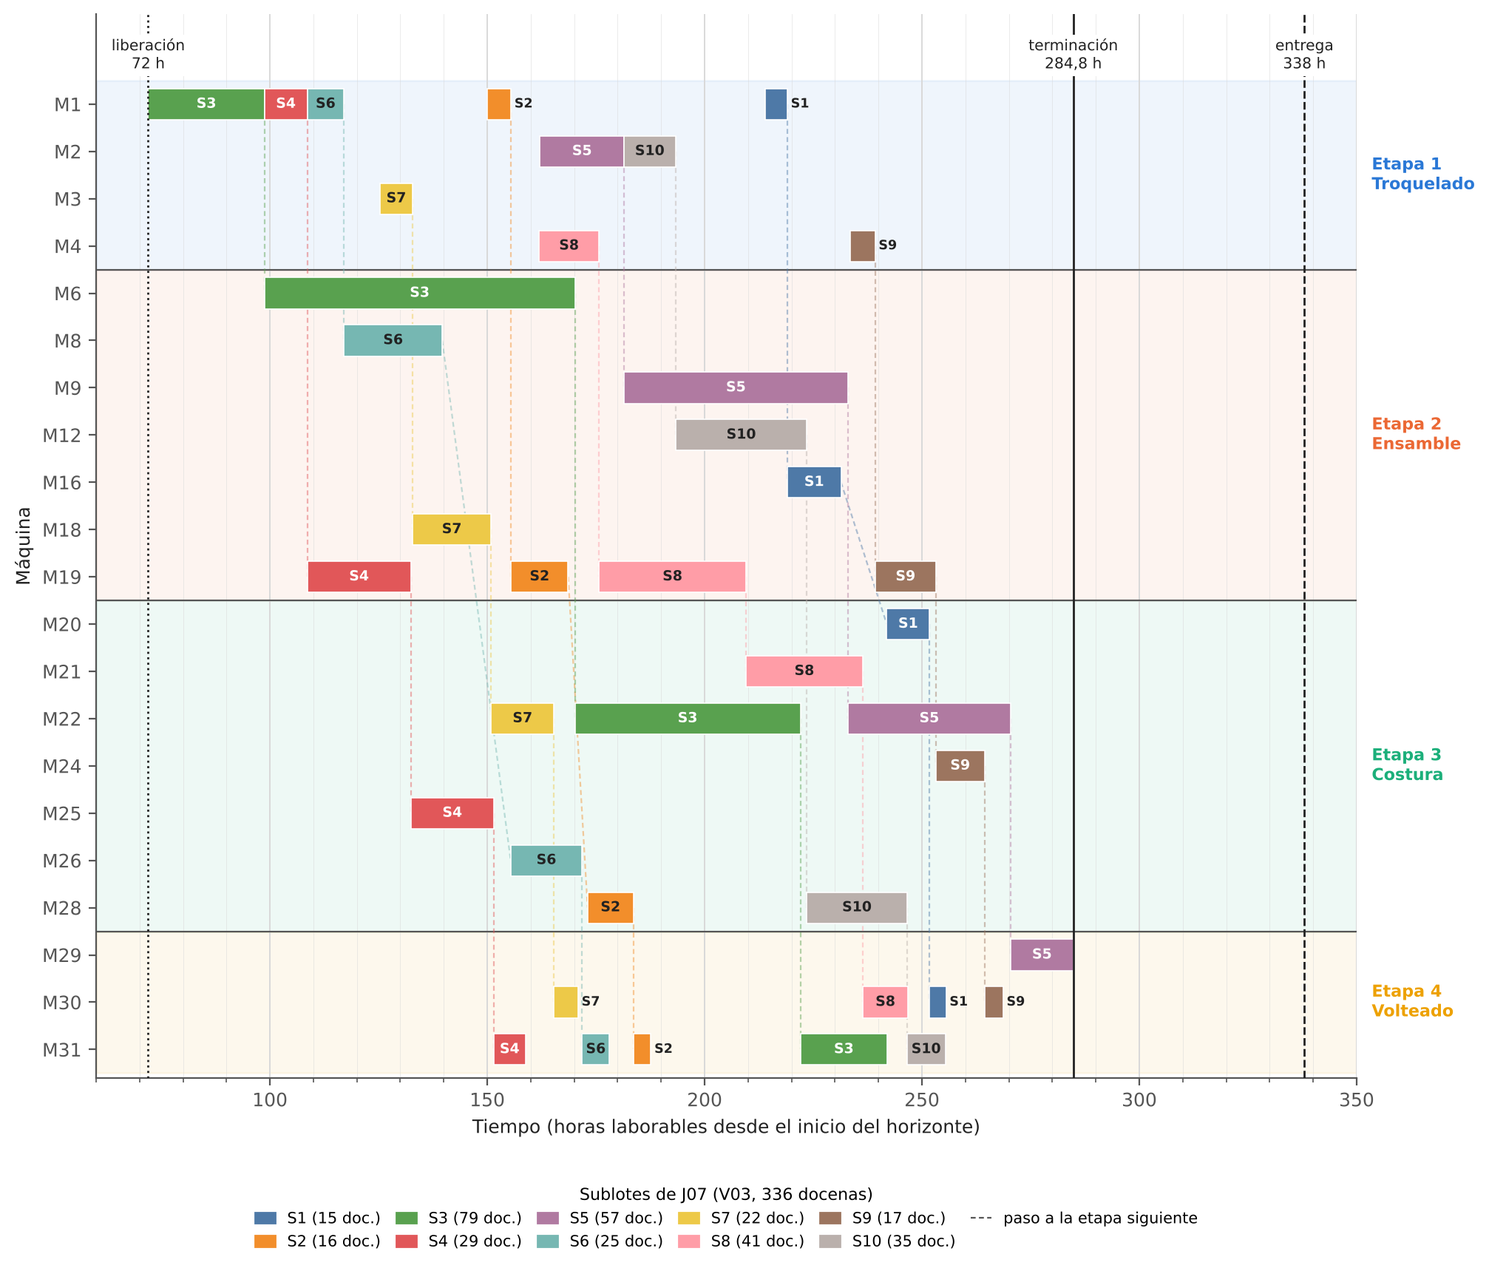
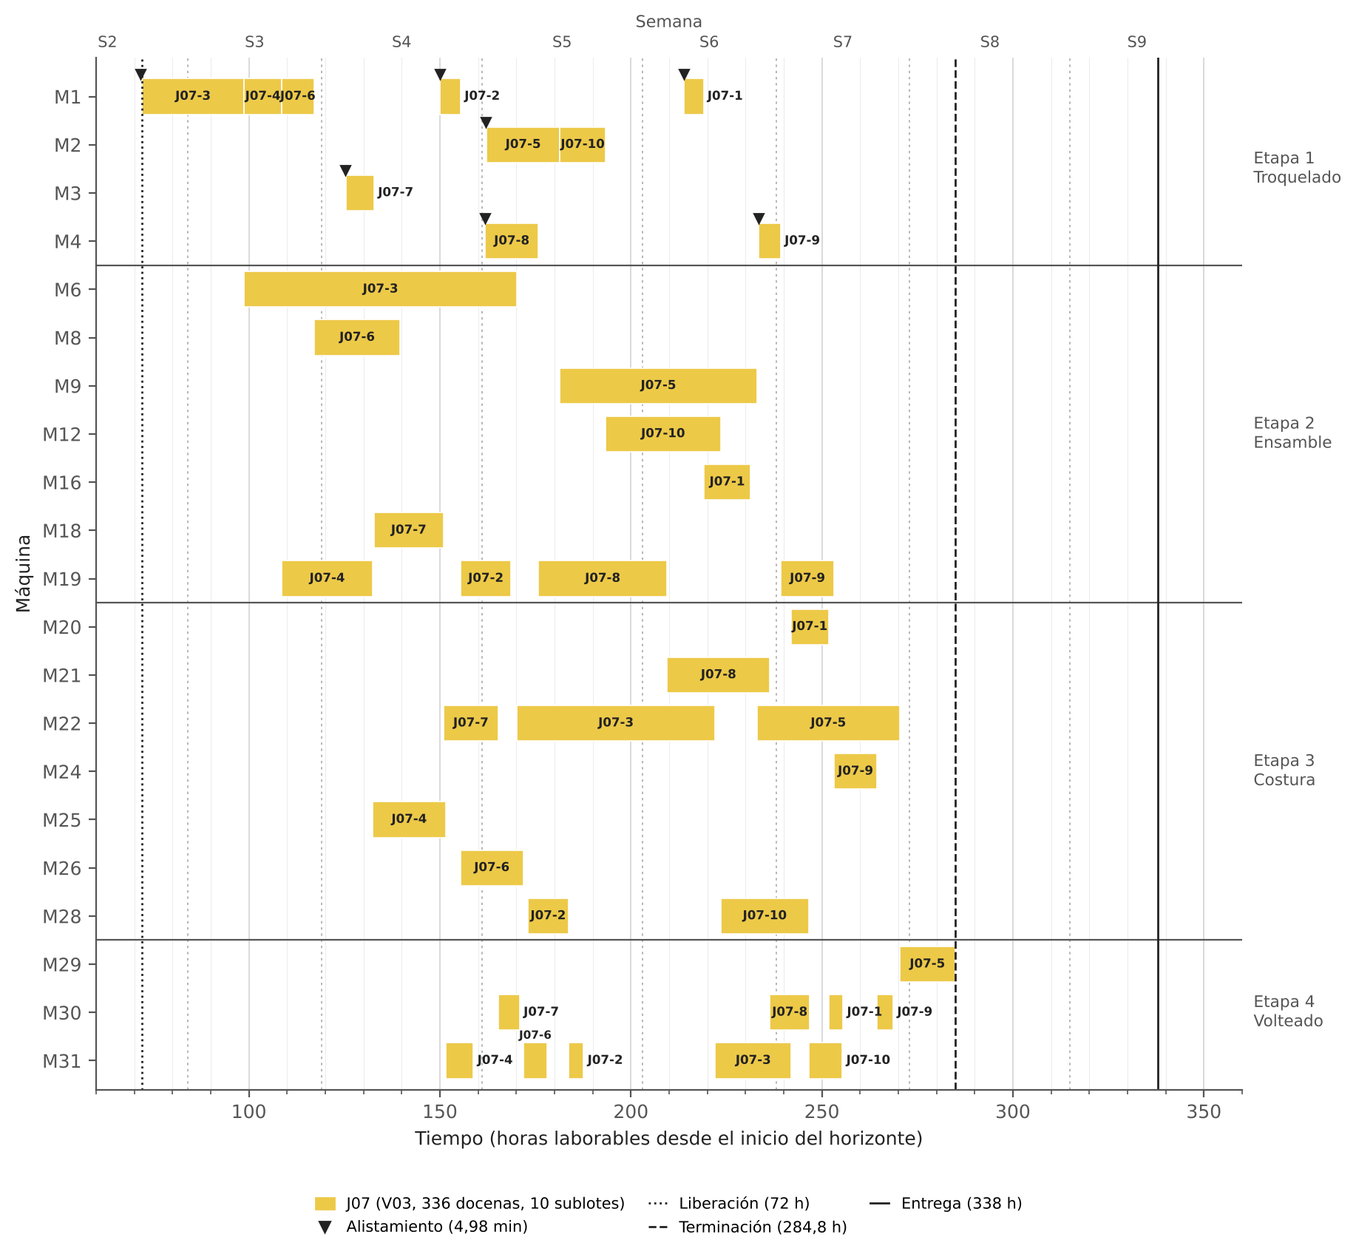
Ruta de la orden J07 con el mismo diseño de los Gantt por etapa
figura_ruta_maquinas usa ahora el estilo de los Gantt por etapa: color de la
orden, etiquetas J07-1 … J07-10, eje de tiempo con horas y semanas, triángulos
de alistamiento y leyenda abajo; las etapas se separan con líneas y su nombre
va al margen. El eje se acota al período de la orden para que las barras y
sus etiquetas se lean, y la liberación, la terminación y la entrega pasan a
la leyenda. Anexo digital actualizado.

Claude-Session: https://claude.ai/code/session_01TVPKkpnk5SghcUD46f5dXj

diff --git a/Anexos_digitales/2_Modelo/final_sc_hfsagls_S2_4.py b/Anexos_digitales/2_Modelo/final_sc_hfsagls_S2_4.py
@@ -896,8 +896,8 @@ def fin_de_semanas() -> List[float]:
     return [fin[k] for k in sorted(fin)]
 
 
-def _eje_tiempo(ax, xmax: float, semanas: List[float]):
-    ax.set_xlim(0, xmax)
+def _eje_tiempo(ax, xmax: float, semanas: List[float], xmin: float = 0):
+    ax.set_xlim(xmin, xmax)
     ax.xaxis.set_major_locator(ticker.MultipleLocator(50))
     ax.xaxis.set_minor_locator(ticker.MultipleLocator(10))
     ax.grid(axis='x', which='major', color=_REJILLA, linewidth=0.7)
@@ -909,13 +909,16 @@ def _eje_tiempo(ax, xmax: float, semanas: List[float]):
     if semanas:                       # semanas del calendario en el eje superior
         ax2 = ax.secondary_xaxis('top')
         lim = [0] + [h for h in semanas if h <= xmax]
-        ax2.set_xticks([(a + b) / 2 for a, b in zip(lim[:-1], lim[1:])])
-        ax2.set_xticklabels([f'S{k + 1}' for k in range(len(lim) - 1)], fontsize=7.5, color=_TINTA2)
+        centros = [((a + b) / 2, f'S{k + 1}') for k, (a, b) in enumerate(zip(lim[:-1], lim[1:]))
+                   if xmin <= (a + b) / 2 <= xmax]
+        ax2.set_xticks([c for c, _ in centros])
+        ax2.set_xticklabels([e for _, e in centros], fontsize=7.5, color=_TINTA2)
         ax2.tick_params(length=0)
         ax2.spines['top'].set_visible(False)
         ax2.set_xlabel('Semana', fontsize=8, color=_TINTA2)
         for h in lim[1:]:
-            ax.axvline(h, color='#aaaaaa', linewidth=0.6, linestyle=(0, (2, 3)), zorder=0)
+            if xmin < h < xmax:
+                ax.axvline(h, color='#aaaaaa', linewidth=0.6, linestyle=(0, (2, 3)), zorder=0)
 
 
 def figura_gantt_etapa(gantt: Dict, etapa: int, xmax: float = 620, titulo: bool = True):
@@ -1055,13 +1058,15 @@ def figura_ruta_por_etapa(C: Dict[str, float], gantt: Dict, tam: Dict[str, List[
     return fig
 
 
-def figura_ruta_maquinas(C: Dict[str, float], gantt: Dict, tam: Dict[str, List[float]], orden: str):
-    """Gantt de la ruta de una orden: una fila por máquina que la procesa, agrupadas por etapa, y
-    cada barra etiquetada con su sublote (un color por sublote, para seguir su flujo entre etapas)."""
+def figura_ruta_maquinas(C: Dict[str, float], gantt: Dict, tam: Dict[str, List[float]], orden: str,
+                         titulo: bool = True):
+    """Gantt de la ruta de una orden con el mismo diseño de los Gantt por etapa: una fila por
+    máquina que procesa la orden (agrupadas y separadas por etapa), barras del color de la orden
+    etiquetadas con el sublote, eje de tiempo en horas y semanas, y alistamientos marcados."""
+    color = COLORES_ORDEN[TRABAJOS.index(orden) % len(COLORES_ORDEN)]
     ops = {(b, s): (m, i, f) for s in ETAPAS for (j, b, m, i, f) in gantt[s] if j == orden}
     B = max(b for (b, _) in ops)
     r, d, cj = RELEASE[orden], DUE_DATE[orden], C[orden]
-    color = {b: COLORES_ORDEN[(b - 1) % len(COLORES_ORDEN)] for b in range(1, B + 1)}
     filas, grupos = [], []                       # filas de arriba hacia abajo, agrupadas por etapa
     for s in ETAPAS:
         maqs = sorted({ops[(b, s)][0] for b in range(1, B + 1)}, key=_clave_maquina)
@@ -1069,60 +1074,71 @@ def figura_ruta_maquinas(C: Dict[str, float], gantt: Dict, tam: Dict[str, List[f
         filas += [(s, mq) for mq in maqs]
     n = len(filas)
     y_de = {fm: n - 1 - k for k, fm in enumerate(filas)}
-    lo, hi = 10 * int(r // 10) - 10, 10 * int(max(d, cj) // 10) + 20
+    xmin, xmax = 10 * int(r // 10) - 10, 10 * int(math.ceil(max(d, cj) / 10)) + 20
+    h_car = 0.0052 * (xmax - xmin)               # ancho aproximado de un carácter en horas
+    inicios = {}                                 # inicios de los sublotes en cada máquina
+    for (b, s), (m, i, f) in ops.items():
+        inicios.setdefault(m, []).append(i)
+    # alistamientos de troquelado que preceden a un sublote de la orden en la misma máquina
+    alist = []
+    s1 = ETAPAS[0]
+    for b in range(1, B + 1):
+        m, i, _ = ops[(b, s1)]
+        previos = [(a, z) for (sa, ma, a, z) in gantt.get('alistamientos', [])
+                   if sa == s1 and ma == m and z <= i + 1e-9]
+        if previos:
+            a, z = max(previos, key=lambda x: x[1])
+            if not any(ma == m and z <= ii + 1e-9 < i - 1e-9
+                       for (jj, _, ma, ii, _) in gantt[s1] if (jj, ma) != (orden, None)):
+                alist.append((m, a))
     with plt.rc_context(_ESTILO_GANTT):
-        fig, ax = plt.subplots(figsize=(11, 0.34 * n + 2.2))
-        for k, (s, a, z) in enumerate(grupos):   # franjas y separadores por etapa
-            y0, y1 = n - 1 - z - 0.5, n - 1 - a + 0.5
-            ax.axhspan(y0, y1, color=COLORES_ETAPA[k], alpha=0.07, zorder=0)
+        fig, ax = plt.subplots(figsize=(10, max(2.2, 0.36 * n + 1.5)))
+        for k, (s, a, z) in enumerate(grupos):   # separadores y nombre de cada etapa
+            y1 = n - 1 - a + 0.5
             if k:
-                ax.axhline(y1, color=_TINTA2, linewidth=0.8, zorder=1)
-            ax.text(hi + (hi - lo) * 0.012, (y0 + y1) / 2, f'Etapa {k + 1}\n{NOMBRE_ETAPA[s]}', va='center',
-                    ha='left', fontsize=8, fontweight='bold', color=COLORES_ETAPA[k])
-        for b in range(1, B + 1):                # conexión entre etapas de cada sublote
-            for s1, s2 in zip(ETAPAS[:-1], ETAPAS[1:]):
-                m1, _, f1 = ops[(b, s1)]
-                m2, i2, _ = ops[(b, s2)]
-                ax.plot([f1, i2], [y_de[(s1, m1)], y_de[(s2, m2)]], color=color[b], linewidth=0.8,
-                        alpha=0.45, linestyle=(0, (3, 2)), zorder=1)
+                ax.axhline(y1, color=_TINTA2, linewidth=0.8)
+            ax.text(xmax + 0.01 * (xmax - xmin), n - 1 - (a + z) / 2, f'Etapa {k + 1}\n{NOMBRE_ETAPA[s]}',
+                    ha='left', va='center', fontsize=7.8, color=_TINTA2, clip_on=False)
         for b in range(1, B + 1):
             for s in ETAPAS:
                 m, i, f = ops[(b, s)]
                 y = y_de[(s, m)]
-                ax.barh(y, f - i, left=i, height=0.66, color=color[b], edgecolor='white', linewidth=0.6,
-                        zorder=2)
-                if f - i >= 6:
-                    ax.text((i + f) / 2, y, f'S{b}', ha='center', va='center', fontsize=6.8,
-                            fontweight='bold', color=_texto_sobre(color[b]), zorder=3)
-                else:                            # barra corta: la etiqueta va a la derecha
-                    ax.text(f + 0.8, y, f'S{b}', ha='left', va='center', fontsize=6.3,
-                            fontweight='bold', color=_TINTA, zorder=3)
-        for x, txt, estilo in ((r, f'liberación\n{r:.0f} h', ':'), (cj, f'terminación\n{_coma(cj)} h', '-'),
-                               (d, f'entrega\n{d:.0f} h', '--')):
-            ax.axvline(x, color=_TINTA, linewidth=1, linestyle=estilo, zorder=4)
-            ax.text(x, n - 0.35, txt, fontsize=7.3, color=_TINTA, ha='center', va='bottom', zorder=5,
-                    bbox=dict(facecolor='white', edgecolor='none', pad=1.2))
+                ax.barh(y, f - i, left=i, height=0.74, color=color, edgecolor='white', linewidth=0.6)
+                etiqueta = f'{orden}-{b}'
+                ancho = h_car * len(etiqueta)
+                siguiente = min([x for x in inicios[m] if x > i + 1e-9], default=float('inf'))
+                if f - i >= ancho:
+                    ax.text((i + f) / 2, y, etiqueta, ha='center', va='center', fontsize=6,
+                            color=_texto_sobre(color), fontweight='bold', clip_on=True)
+                elif f + 1 + ancho < siguiente:  # barra corta: la etiqueta va a la derecha
+                    ax.text(f + 1, y, etiqueta, ha='left', va='center', fontsize=6,
+                            color=_TINTA, fontweight='bold')
+                else:                            # sin espacio a la derecha: va encima
+                    ax.text((i + f) / 2, y + 0.4, etiqueta, ha='center', va='bottom', fontsize=5.5,
+                            color=_TINTA, fontweight='bold')
+        for (m, a) in alist:
+            ax.plot(a, y_de[(s1, m)] + 0.47, marker='v', markersize=4, color=_TINTA, linestyle='none',
+                    zorder=5, clip_on=False)
+        lineas = [(r, f'Liberación ({r:.0f} h)', ':'), (cj, f'Terminación ({_coma(cj)} h)', '--'),
+                  (d, f'Entrega ({d:.0f} h)', '-')]
+        for x, _, estilo in lineas:
+            ax.axvline(x, color=_TINTA, linewidth=1, linestyle=estilo)
         ax.set_yticks(range(n))
         ax.set_yticklabels([mq for (_, mq) in reversed(filas)])
-        ax.set_ylim(-0.6, n + 0.9)
+        ax.set_ylim(-0.6, n - 0.2)
         ax.set_ylabel('Máquina')
-        ax.set_xlim(lo, hi)
-        ax.xaxis.set_major_locator(ticker.MultipleLocator(50))
-        ax.xaxis.set_minor_locator(ticker.MultipleLocator(10))
-        ax.grid(axis='x', which='major', color=_REJILLA, linewidth=0.7)
-        ax.grid(axis='x', which='minor', color=_REJILLA, linewidth=0.3, alpha=0.6)
-        ax.set_axisbelow(True)
-        ax.set_xlabel('Tiempo (horas laborables desde el inicio del horizonte)')
-        for lado in ('top', 'right'):
-            ax.spines[lado].set_visible(False)
-        leyenda = [mpatches.Patch(color=color[b], label=f'S{b} ({int(tam[orden][b - 1])} doc.)')
-                   for b in range(1, B + 1)]
-        leyenda.append(plt.Line2D([], [], color=_TINTA2, linewidth=0.8, linestyle=(0, (3, 2)),
-                                  label='paso a la etapa siguiente'))
-        ax.legend(handles=leyenda, loc='upper center', bbox_to_anchor=(0.5, -0.09), ncol=6, fontsize=7.5,
-                  frameon=False, handlelength=1.3, columnspacing=1.0,
-                  title=f'Sublotes de {orden} ({PRODUCTO[orden]}, {DEMANDA[orden]:.0f} docenas)',
-                  title_fontsize=8)
+        if titulo:
+            ax.set_title(f'Ruta de la orden {orden} ({PRODUCTO[orden]})', loc='left', fontsize=10,
+                         fontweight='bold', color=_TINTA, pad=28)
+        _eje_tiempo(ax, xmax, fin_de_semanas(), xmin=xmin)
+        leyenda = [mpatches.Patch(color=color, label=f'{orden} ({PRODUCTO[orden]}, {DEMANDA[orden]:.0f} docenas, '
+                                                     f'{B} sublotes)')]
+        if alist:
+            leyenda.append(plt.Line2D([], [], marker='v', markersize=5, color=_TINTA, linestyle='none',
+                                      label='Alistamiento (4,98 min)'))
+        leyenda += [plt.Line2D([], [], color=_TINTA, linewidth=1, linestyle=e, label=t) for _, t, e in lineas]
+        ax.legend(handles=leyenda, loc='upper center', bbox_to_anchor=(0.5, -0.09), ncol=3, fontsize=7.5,
+                  frameon=False, handlelength=1.2, columnspacing=1.5)
     return fig
 
 
@@ -1240,7 +1256,7 @@ def figuras_gantt(individuo: dict, orden_ruta: Optional[str] = None, titulo: boo
     if todas_las_rutas:
         figs[f'ruta_{orden}'] = figura_ruta_orden(C, gantt, tam, orden)
         figs[f'ruta_etapas_{orden}'] = figura_ruta_por_etapa(C, gantt, tam, orden)
-    figs[f'ruta_maquinas_{orden}'] = figura_ruta_maquinas(C, gantt, tam, orden)
+    figs[f'ruta_maquinas_{orden}'] = figura_ruta_maquinas(C, gantt, tam, orden, titulo=titulo)
     figs['uso_maquinas'] = figura_uso_maquinas(gantt, max(C.values()))
     figs['simultaneidad'] = figura_simultaneidad(gantt, C)
     return figs

diff --git a/final_sc_hfsagls_S2_4.py b/final_sc_hfsagls_S2_4.py
@@ -896,8 +896,8 @@ def fin_de_semanas() -> List[float]:
     return [fin[k] for k in sorted(fin)]
 
 
-def _eje_tiempo(ax, xmax: float, semanas: List[float]):
-    ax.set_xlim(0, xmax)
+def _eje_tiempo(ax, xmax: float, semanas: List[float], xmin: float = 0):
+    ax.set_xlim(xmin, xmax)
     ax.xaxis.set_major_locator(ticker.MultipleLocator(50))
     ax.xaxis.set_minor_locator(ticker.MultipleLocator(10))
     ax.grid(axis='x', which='major', color=_REJILLA, linewidth=0.7)
@@ -909,13 +909,16 @@ def _eje_tiempo(ax, xmax: float, semanas: List[float]):
     if semanas:                       # semanas del calendario en el eje superior
         ax2 = ax.secondary_xaxis('top')
         lim = [0] + [h for h in semanas if h <= xmax]
-        ax2.set_xticks([(a + b) / 2 for a, b in zip(lim[:-1], lim[1:])])
-        ax2.set_xticklabels([f'S{k + 1}' for k in range(len(lim) - 1)], fontsize=7.5, color=_TINTA2)
+        centros = [((a + b) / 2, f'S{k + 1}') for k, (a, b) in enumerate(zip(lim[:-1], lim[1:]))
+                   if xmin <= (a + b) / 2 <= xmax]
+        ax2.set_xticks([c for c, _ in centros])
+        ax2.set_xticklabels([e for _, e in centros], fontsize=7.5, color=_TINTA2)
         ax2.tick_params(length=0)
         ax2.spines['top'].set_visible(False)
         ax2.set_xlabel('Semana', fontsize=8, color=_TINTA2)
         for h in lim[1:]:
-            ax.axvline(h, color='#aaaaaa', linewidth=0.6, linestyle=(0, (2, 3)), zorder=0)
+            if xmin < h < xmax:
+                ax.axvline(h, color='#aaaaaa', linewidth=0.6, linestyle=(0, (2, 3)), zorder=0)
 
 
 def figura_gantt_etapa(gantt: Dict, etapa: int, xmax: float = 620, titulo: bool = True):
@@ -1055,13 +1058,15 @@ def figura_ruta_por_etapa(C: Dict[str, float], gantt: Dict, tam: Dict[str, List[
     return fig
 
 
-def figura_ruta_maquinas(C: Dict[str, float], gantt: Dict, tam: Dict[str, List[float]], orden: str):
-    """Gantt de la ruta de una orden: una fila por máquina que la procesa, agrupadas por etapa, y
-    cada barra etiquetada con su sublote (un color por sublote, para seguir su flujo entre etapas)."""
+def figura_ruta_maquinas(C: Dict[str, float], gantt: Dict, tam: Dict[str, List[float]], orden: str,
+                         titulo: bool = True):
+    """Gantt de la ruta de una orden con el mismo diseño de los Gantt por etapa: una fila por
+    máquina que procesa la orden (agrupadas y separadas por etapa), barras del color de la orden
+    etiquetadas con el sublote, eje de tiempo en horas y semanas, y alistamientos marcados."""
+    color = COLORES_ORDEN[TRABAJOS.index(orden) % len(COLORES_ORDEN)]
     ops = {(b, s): (m, i, f) for s in ETAPAS for (j, b, m, i, f) in gantt[s] if j == orden}
     B = max(b for (b, _) in ops)
     r, d, cj = RELEASE[orden], DUE_DATE[orden], C[orden]
-    color = {b: COLORES_ORDEN[(b - 1) % len(COLORES_ORDEN)] for b in range(1, B + 1)}
     filas, grupos = [], []                       # filas de arriba hacia abajo, agrupadas por etapa
     for s in ETAPAS:
         maqs = sorted({ops[(b, s)][0] for b in range(1, B + 1)}, key=_clave_maquina)
@@ -1069,60 +1074,71 @@ def figura_ruta_maquinas(C: Dict[str, float], gantt: Dict, tam: Dict[str, List[f
         filas += [(s, mq) for mq in maqs]
     n = len(filas)
     y_de = {fm: n - 1 - k for k, fm in enumerate(filas)}
-    lo, hi = 10 * int(r // 10) - 10, 10 * int(max(d, cj) // 10) + 20
+    xmin, xmax = 10 * int(r // 10) - 10, 10 * int(math.ceil(max(d, cj) / 10)) + 20
+    h_car = 0.0052 * (xmax - xmin)               # ancho aproximado de un carácter en horas
+    inicios = {}                                 # inicios de los sublotes en cada máquina
+    for (b, s), (m, i, f) in ops.items():
+        inicios.setdefault(m, []).append(i)
+    # alistamientos de troquelado que preceden a un sublote de la orden en la misma máquina
+    alist = []
+    s1 = ETAPAS[0]
+    for b in range(1, B + 1):
+        m, i, _ = ops[(b, s1)]
+        previos = [(a, z) for (sa, ma, a, z) in gantt.get('alistamientos', [])
+                   if sa == s1 and ma == m and z <= i + 1e-9]
+        if previos:
+            a, z = max(previos, key=lambda x: x[1])
+            if not any(ma == m and z <= ii + 1e-9 < i - 1e-9
+                       for (jj, _, ma, ii, _) in gantt[s1] if (jj, ma) != (orden, None)):
+                alist.append((m, a))
     with plt.rc_context(_ESTILO_GANTT):
-        fig, ax = plt.subplots(figsize=(11, 0.34 * n + 2.2))
-        for k, (s, a, z) in enumerate(grupos):   # franjas y separadores por etapa
-            y0, y1 = n - 1 - z - 0.5, n - 1 - a + 0.5
-            ax.axhspan(y0, y1, color=COLORES_ETAPA[k], alpha=0.07, zorder=0)
+        fig, ax = plt.subplots(figsize=(10, max(2.2, 0.36 * n + 1.5)))
+        for k, (s, a, z) in enumerate(grupos):   # separadores y nombre de cada etapa
+            y1 = n - 1 - a + 0.5
             if k:
-                ax.axhline(y1, color=_TINTA2, linewidth=0.8, zorder=1)
-            ax.text(hi + (hi - lo) * 0.012, (y0 + y1) / 2, f'Etapa {k + 1}\n{NOMBRE_ETAPA[s]}', va='center',
-                    ha='left', fontsize=8, fontweight='bold', color=COLORES_ETAPA[k])
-        for b in range(1, B + 1):                # conexión entre etapas de cada sublote
-            for s1, s2 in zip(ETAPAS[:-1], ETAPAS[1:]):
-                m1, _, f1 = ops[(b, s1)]
-                m2, i2, _ = ops[(b, s2)]
-                ax.plot([f1, i2], [y_de[(s1, m1)], y_de[(s2, m2)]], color=color[b], linewidth=0.8,
-                        alpha=0.45, linestyle=(0, (3, 2)), zorder=1)
+                ax.axhline(y1, color=_TINTA2, linewidth=0.8)
+            ax.text(xmax + 0.01 * (xmax - xmin), n - 1 - (a + z) / 2, f'Etapa {k + 1}\n{NOMBRE_ETAPA[s]}',
+                    ha='left', va='center', fontsize=7.8, color=_TINTA2, clip_on=False)
         for b in range(1, B + 1):
             for s in ETAPAS:
                 m, i, f = ops[(b, s)]
                 y = y_de[(s, m)]
-                ax.barh(y, f - i, left=i, height=0.66, color=color[b], edgecolor='white', linewidth=0.6,
-                        zorder=2)
-                if f - i >= 6:
-                    ax.text((i + f) / 2, y, f'S{b}', ha='center', va='center', fontsize=6.8,
-                            fontweight='bold', color=_texto_sobre(color[b]), zorder=3)
-                else:                            # barra corta: la etiqueta va a la derecha
-                    ax.text(f + 0.8, y, f'S{b}', ha='left', va='center', fontsize=6.3,
-                            fontweight='bold', color=_TINTA, zorder=3)
-        for x, txt, estilo in ((r, f'liberación\n{r:.0f} h', ':'), (cj, f'terminación\n{_coma(cj)} h', '-'),
-                               (d, f'entrega\n{d:.0f} h', '--')):
-            ax.axvline(x, color=_TINTA, linewidth=1, linestyle=estilo, zorder=4)
-            ax.text(x, n - 0.35, txt, fontsize=7.3, color=_TINTA, ha='center', va='bottom', zorder=5,
-                    bbox=dict(facecolor='white', edgecolor='none', pad=1.2))
+                ax.barh(y, f - i, left=i, height=0.74, color=color, edgecolor='white', linewidth=0.6)
+                etiqueta = f'{orden}-{b}'
+                ancho = h_car * len(etiqueta)
+                siguiente = min([x for x in inicios[m] if x > i + 1e-9], default=float('inf'))
+                if f - i >= ancho:
+                    ax.text((i + f) / 2, y, etiqueta, ha='center', va='center', fontsize=6,
+                            color=_texto_sobre(color), fontweight='bold', clip_on=True)
+                elif f + 1 + ancho < siguiente:  # barra corta: la etiqueta va a la derecha
+                    ax.text(f + 1, y, etiqueta, ha='left', va='center', fontsize=6,
+                            color=_TINTA, fontweight='bold')
+                else:                            # sin espacio a la derecha: va encima
+                    ax.text((i + f) / 2, y + 0.4, etiqueta, ha='center', va='bottom', fontsize=5.5,
+                            color=_TINTA, fontweight='bold')
+        for (m, a) in alist:
+            ax.plot(a, y_de[(s1, m)] + 0.47, marker='v', markersize=4, color=_TINTA, linestyle='none',
+                    zorder=5, clip_on=False)
+        lineas = [(r, f'Liberación ({r:.0f} h)', ':'), (cj, f'Terminación ({_coma(cj)} h)', '--'),
+                  (d, f'Entrega ({d:.0f} h)', '-')]
+        for x, _, estilo in lineas:
+            ax.axvline(x, color=_TINTA, linewidth=1, linestyle=estilo)
         ax.set_yticks(range(n))
         ax.set_yticklabels([mq for (_, mq) in reversed(filas)])
-        ax.set_ylim(-0.6, n + 0.9)
+        ax.set_ylim(-0.6, n - 0.2)
         ax.set_ylabel('Máquina')
-        ax.set_xlim(lo, hi)
-        ax.xaxis.set_major_locator(ticker.MultipleLocator(50))
-        ax.xaxis.set_minor_locator(ticker.MultipleLocator(10))
-        ax.grid(axis='x', which='major', color=_REJILLA, linewidth=0.7)
-        ax.grid(axis='x', which='minor', color=_REJILLA, linewidth=0.3, alpha=0.6)
-        ax.set_axisbelow(True)
-        ax.set_xlabel('Tiempo (horas laborables desde el inicio del horizonte)')
-        for lado in ('top', 'right'):
-            ax.spines[lado].set_visible(False)
-        leyenda = [mpatches.Patch(color=color[b], label=f'S{b} ({int(tam[orden][b - 1])} doc.)')
-                   for b in range(1, B + 1)]
-        leyenda.append(plt.Line2D([], [], color=_TINTA2, linewidth=0.8, linestyle=(0, (3, 2)),
-                                  label='paso a la etapa siguiente'))
-        ax.legend(handles=leyenda, loc='upper center', bbox_to_anchor=(0.5, -0.09), ncol=6, fontsize=7.5,
-                  frameon=False, handlelength=1.3, columnspacing=1.0,
-                  title=f'Sublotes de {orden} ({PRODUCTO[orden]}, {DEMANDA[orden]:.0f} docenas)',
-                  title_fontsize=8)
+        if titulo:
+            ax.set_title(f'Ruta de la orden {orden} ({PRODUCTO[orden]})', loc='left', fontsize=10,
+                         fontweight='bold', color=_TINTA, pad=28)
+        _eje_tiempo(ax, xmax, fin_de_semanas(), xmin=xmin)
+        leyenda = [mpatches.Patch(color=color, label=f'{orden} ({PRODUCTO[orden]}, {DEMANDA[orden]:.0f} docenas, '
+                                                     f'{B} sublotes)')]
+        if alist:
+            leyenda.append(plt.Line2D([], [], marker='v', markersize=5, color=_TINTA, linestyle='none',
+                                      label='Alistamiento (4,98 min)'))
+        leyenda += [plt.Line2D([], [], color=_TINTA, linewidth=1, linestyle=e, label=t) for _, t, e in lineas]
+        ax.legend(handles=leyenda, loc='upper center', bbox_to_anchor=(0.5, -0.09), ncol=3, fontsize=7.5,
+                  frameon=False, handlelength=1.2, columnspacing=1.5)
     return fig
 
 
@@ -1240,7 +1256,7 @@ def figuras_gantt(individuo: dict, orden_ruta: Optional[str] = None, titulo: boo
     if todas_las_rutas:
         figs[f'ruta_{orden}'] = figura_ruta_orden(C, gantt, tam, orden)
         figs[f'ruta_etapas_{orden}'] = figura_ruta_por_etapa(C, gantt, tam, orden)
-    figs[f'ruta_maquinas_{orden}'] = figura_ruta_maquinas(C, gantt, tam, orden)
+    figs[f'ruta_maquinas_{orden}'] = figura_ruta_maquinas(C, gantt, tam, orden, titulo=titulo)
     figs['uso_maquinas'] = figura_uso_maquinas(gantt, max(C.values()))
     figs['simultaneidad'] = figura_simultaneidad(gantt, C)
     return figs
